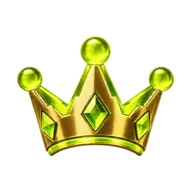
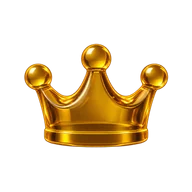
feat: generate arcade token and disc sprites

Changed region(s): [[0.0625, 0.1875, 0.9062, 0.8125]]

diff --git a/docs/design/game-art-fidelity-ledger.md b/docs/design/game-art-fidelity-ledger.md
@@ -221,3 +221,23 @@ Accepted seven deterministic Retro Hangman illustrations from the shared fixed-p
 | Final geometry and budget | All seven finals use source union `{ left: 123, top: 206, width: 778, height: 695 }`, one downscale-only factor and output base y=338. Each has 76.0417% longest-bound fill, at least 11.98% padding, one meaningful component containing 100% of connected foreground, transparent corners, no edge contact and a distinct hash. Batch finals total 48,218 bytes; largest final is 11,274 bytes. Sources total 324,298 bytes and remain outside the runtime budget. |
 
 Stage remains `generation-batches`: 72 completed custom records, 36 `generationPending` custom records, and nine unchanged `authorityReferencePending` quarter slots. Only the seven Retro Hangman records gained completion timestamps and `scripts/generate-retro-hangman.mjs` provenance. All 117 production sprites total 844,266 bytes; the largest remains the inherited 17,732-byte Arcade Hangman stage 6, below the 2 MiB total and 64 KiB per-file limits. Arcade Hangman and every other pending role remain unchanged. This batch changes artwork and authoring contracts only; it does not alter Hangman gameplay or claim a fresh browser gameplay audit.
+
+## Task 2J Arcade tokens and discs — 2026-10-03
+
+Accepted seven distinct Arcade production sprites through separate built-in image-generation calls using the exact frozen manifest prompts: magenta player1 X, cyan player2 O, matching magenta/cyan Connect Four and checker discs, and one shared gold crown. The cyan checker required two rejected exact-prompt candidates before the accepted third candidate: the first read as a segmented poker chip, and the second used an oblique sidewall instead of the required top-down checker view. No rejected output entered the repository. There was no CLI/API fallback, sheet generation, cross-role reuse, or fabricated provenance.
+
+| Inspection | Evidence and result |
+| --- | --- |
+| Original sources | All nine generated 1254×1254 true-alpha PNGs were inspected at native dimensions through the approved high-quality WebP inline fallback after direct `view_image` failed because bubblewrap is unavailable. Alpha and geometry measurements use the untouched PNGs. The seven accepted sources each contain one complete meaningful object with solid readable centers/boundaries and restrained rim light. |
+| Tic-Tac-Toe | The X is one continuous rounded tactile token. The O is a complete cyan ring with unobstructed negative space. Both retain dark translucent bodies and clear physical silhouettes without depending on bloom. |
+| Connect Four and Checkers | Connect Four uses complete circular molded discs with shallow recessed centers. Checkers uses separate complete top-down discs with concentric ridges and flat upper faces. Ownership stays magenta player1 / cyan player2; the accepted final family avoids poker-chip segmentation and oblique camera drift. |
+| Crown | The shared gold marker is one standalone centered crown with a compact continuous base and three rounded points. There is no checker disc underneath. |
+| Production-size light/dark | [Light](qa/arcade-tokens-discs-full-light.webp) and [dark](qa/arcade-tokens-discs-full-dark.webp) sheets show the exact seven final WebPs in 256px cells. Complete silhouettes, recessed/ridged distinction, ownership colors, solid centers and crown remain clear on both backgrounds, with no opaque box, checkerboard, text, watermark, ground plane, clipping, edge contact or extra meaningful object. |
+| Phone-size readability | [Light](qa/arcade-tokens-discs-phone-light.webp) and [dark](qa/arcade-tokens-discs-phone-dark.webp) 64px-cell sheets retain the X/O identities and opening, magenta/cyan ownership, Connect Four/checker distinction, and crown silhouette without relying on glow. |
+| Alpha, geometry and budget | Source preparation removes only 65–1,914 detached sub-5% alpha pixels in memory without rewriting stored PNGs. Every final has genuine alpha, transparent corners, no edge contact, one meaningful component containing 100% of connected foreground, 76.04–76.17% longest-bound fill, and at least 11.72% padding. Batch finals total 66,240 bytes; largest final is 13,162 bytes. Sources total 8,132,076 bytes and remain outside the runtime budget. |
+
+Contact-sheet order is X, O, magenta Connect Four, cyan Connect Four, magenta checker, cyan checker, crown. The seven repository source PNGs are byte-identical to their selected built-in originals. Exact accepted prompts, source/final paths, actual generation timestamps, and review timestamps are recorded in the corresponding manifest records.
+
+Stage remains `generation-batches`: 79 completed custom records, 29 `generationPending` custom records, and nine unchanged `authorityReferencePending` quarter slots. All 117 production sprites total 853,814 bytes; the largest remains the inherited 17,732-byte Arcade Hangman stage 6, below the 2 MiB total and 64 KiB per-file limits.
+
+Only these seven records, sources, finals, and four QA sheets belong to this batch. No catalog, registry, validator, dependency, authoring helper, or gameplay change was needed, and this inspection does not claim a fresh browser gameplay audit.
